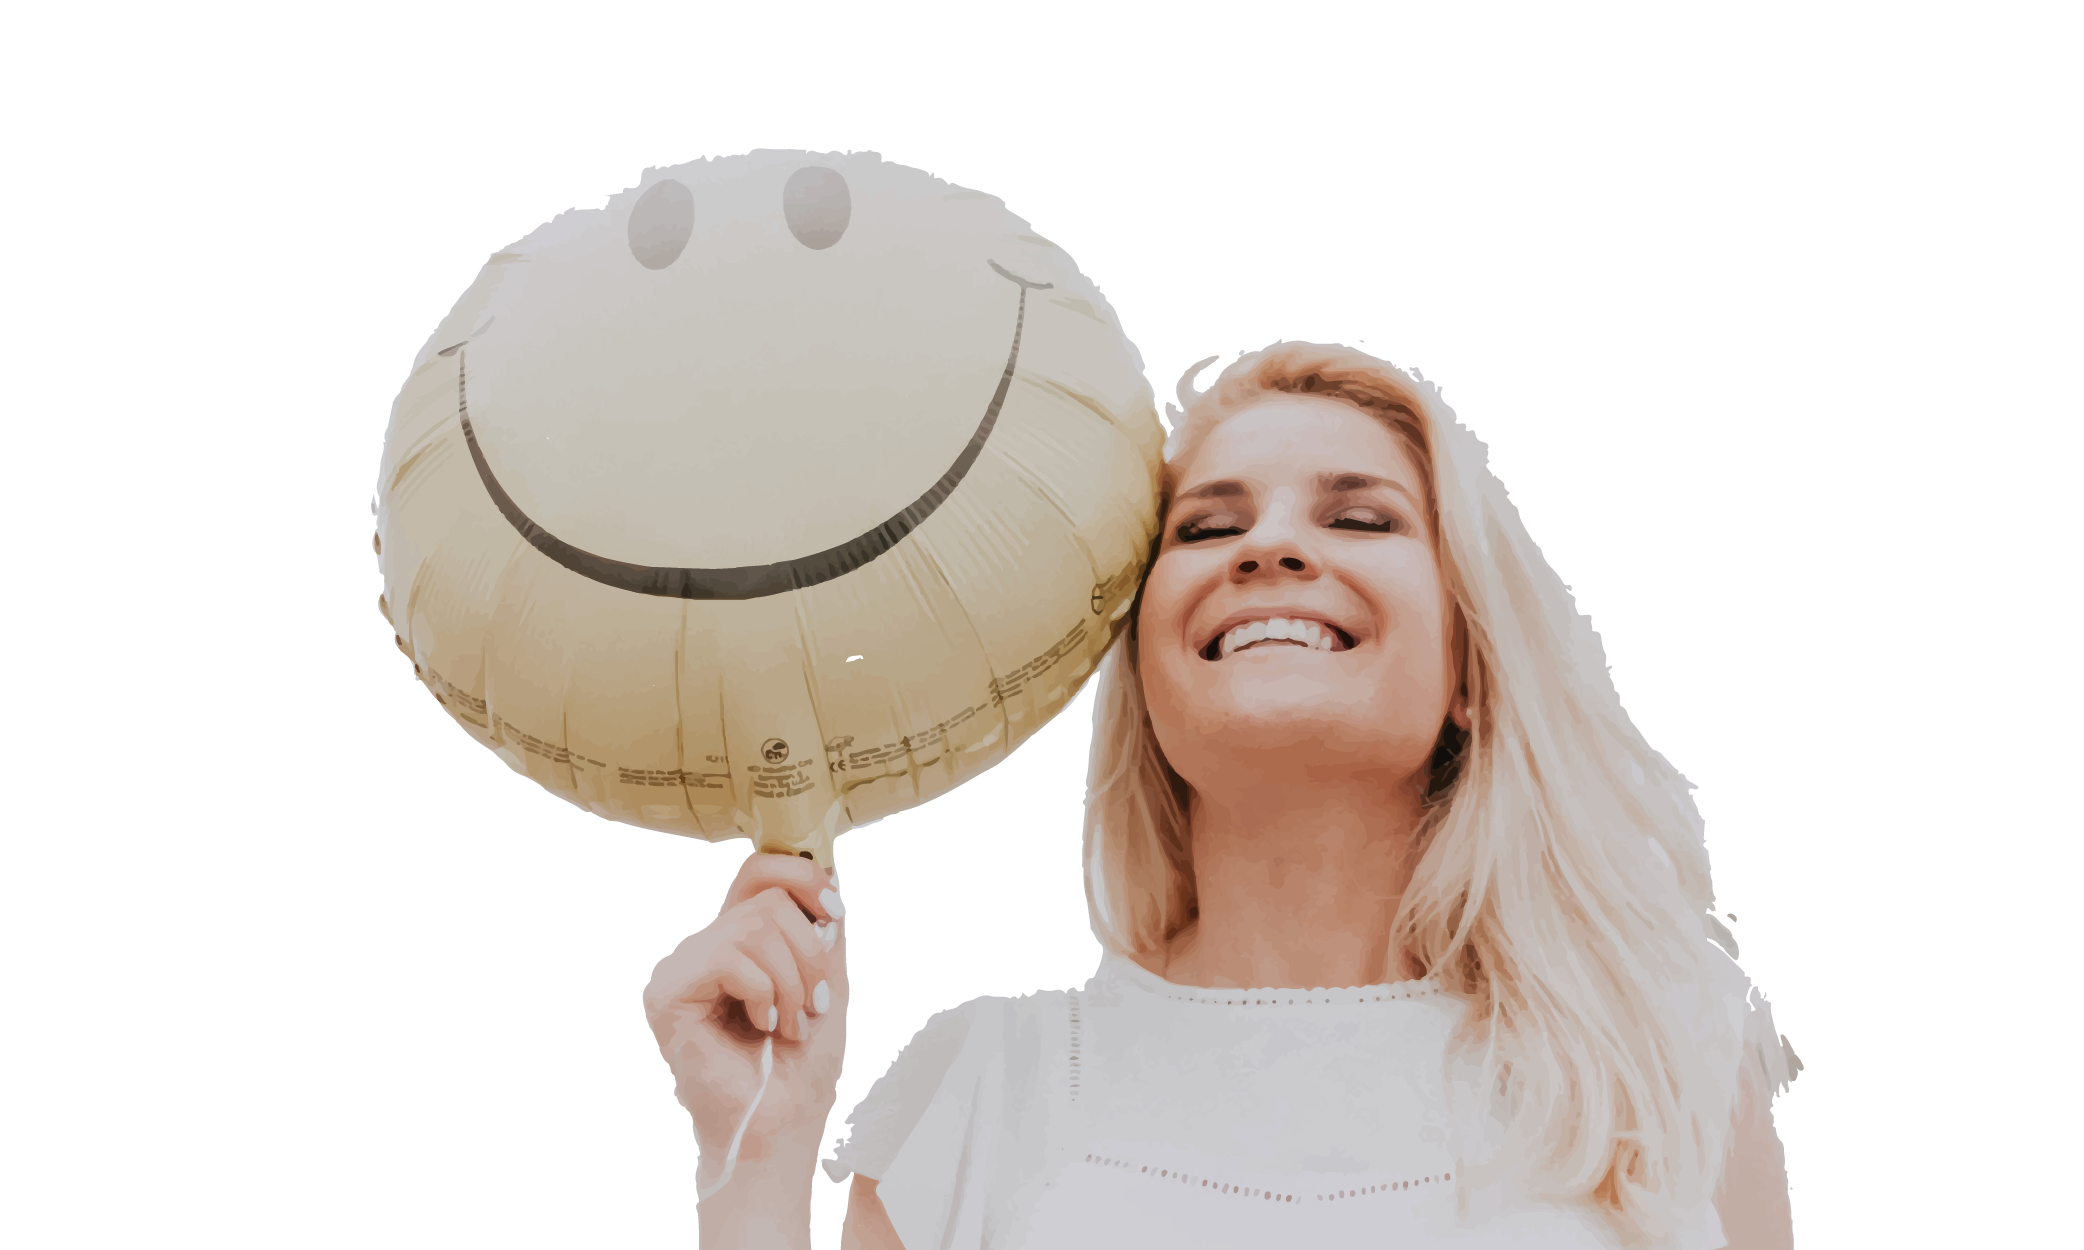
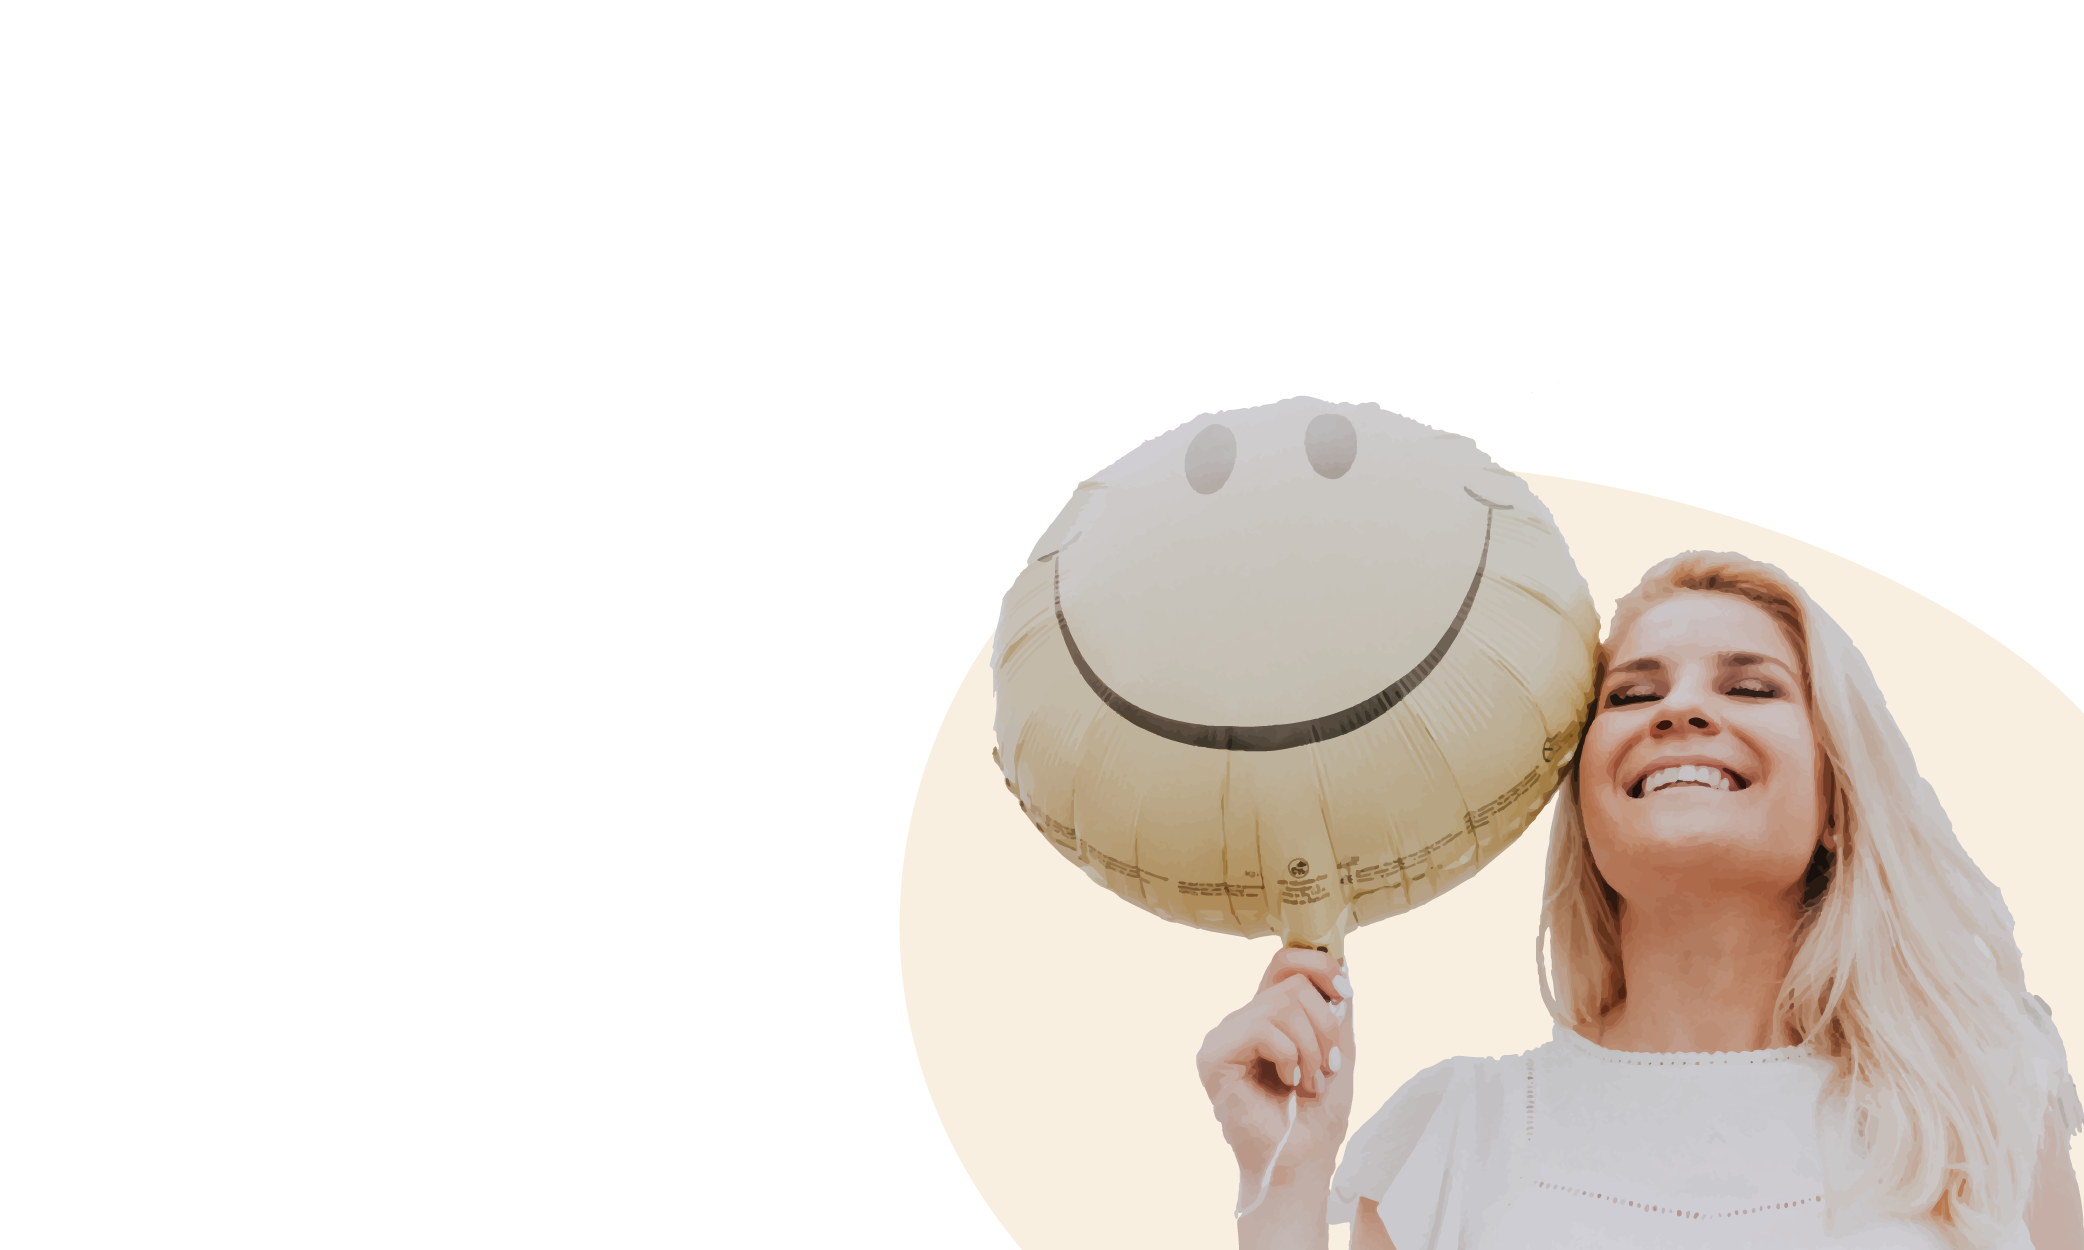
added margin to homepage and also on message page
added background to history page

diff --git a/public/css/forms.css b/public/css/forms.css
@@ -1,7 +1,7 @@
 /* login page */
 .cardF{
     width: 600px;
-    height: 700px;
+    height: 600px;
     background:white;
     border: 0;
     border-radius: 20px;
@@ -13,15 +13,22 @@
     background-size: cover;
     height: 100vh;
 }
+.login-container{
+    margin-top: 50px;
+}
 
 .hide {
     display: none;
     color: red;
 }
 
-.card-body{
+/*.card-body{
     
     margin-top: 30px;
+}*/
+
+.login-body{
+    margin-top: 50px;
 }
 
 .form-input{
@@ -159,3 +166,32 @@
     transition: 0.5s;
     padding: 12px;
 }
+@media only screen and (max-width: 600px) {
+    .cardG {
+        width: 10px;
+        height: auto;
+        background:white;
+        border: 0;
+        border-radius: 20px;
+        box-shadow: 0 0.5rem 1rem 0 rgba(0, 0, 0, 0.1);
+    }
+    .FC{
+        margin-top: 10px;
+        border: none;
+        cursor: pointer;
+        border: 2px solid orange;
+        border-radius: 50px;
+        color: #000;
+        font-size: 90%;
+        width:500px;
+        height: 50px;
+        letter-spacing: .1rem;
+        transition: 0.5s;
+        padding: 12px;
+    }
+    .dashboard-body{
+        margin: 20px;
+        width: 10px;
+    }
+  }
+

diff --git a/public/css/log.css b/public/css/log.css
@@ -1,5 +1,5 @@
 .messageBg{
-    background-image: url(../img/LastImg-01.png);
+    background-image: url(../img/balloon-01.png);
     background-size: cover;
     height: 100vh;
 }
@@ -30,7 +30,7 @@
 
 .affirmationName{
     font-family: 'Abril Fatface', cursive;
-    font-size: 70px;
+    font-size: 60px;
     
 }
 
@@ -64,9 +64,24 @@
 .table{
     margin-top:40px;
 }
+.dashboardBackground{
+    background-image: url(../img/dashboardBg-01.png);
+    background-size: cover;
+    height: 100vh;
+}
 
 .historyBG{
     background-image: url(../img/moodPebble-01.png);
     background-size: cover;
     height: 100vh;
+}
+
+.historybtn{
+    box-shadow: 0 0.5rem 1rem 0 rgba(0, 0, 0, 0.1);
+}
+
+.deletebtn{
+    box-shadow: 0 0.5rem 1rem 0 rgba(0, 0, 0, 0.1);
+    margin: 10px;
+    width: 300px;
 }

diff --git a/public/css/style.css b/public/css/style.css
@@ -17,7 +17,7 @@
     font-size: 40px;
 }
 .pebbleIMG{
-    width: 900px;
+    width: 1000px;
     margin-left: -200px;
     margin-top: -80px;
     
@@ -31,6 +31,9 @@
     font-family: 'Abril Fatface', cursive;
 }
 
+.mainPageTitle{
+    margin-top: 30px;
+}
 
 .dot{
     height: 20px;
@@ -87,9 +90,13 @@
 
 .aboutIMG{
     width: 1600px;
-    
     position: relative;
-    top: -140px;
+    top: 50px;
+    right: 250px;
+}
+
+.about-text{
+    margin-top:20px;
 }
 
 .add{
